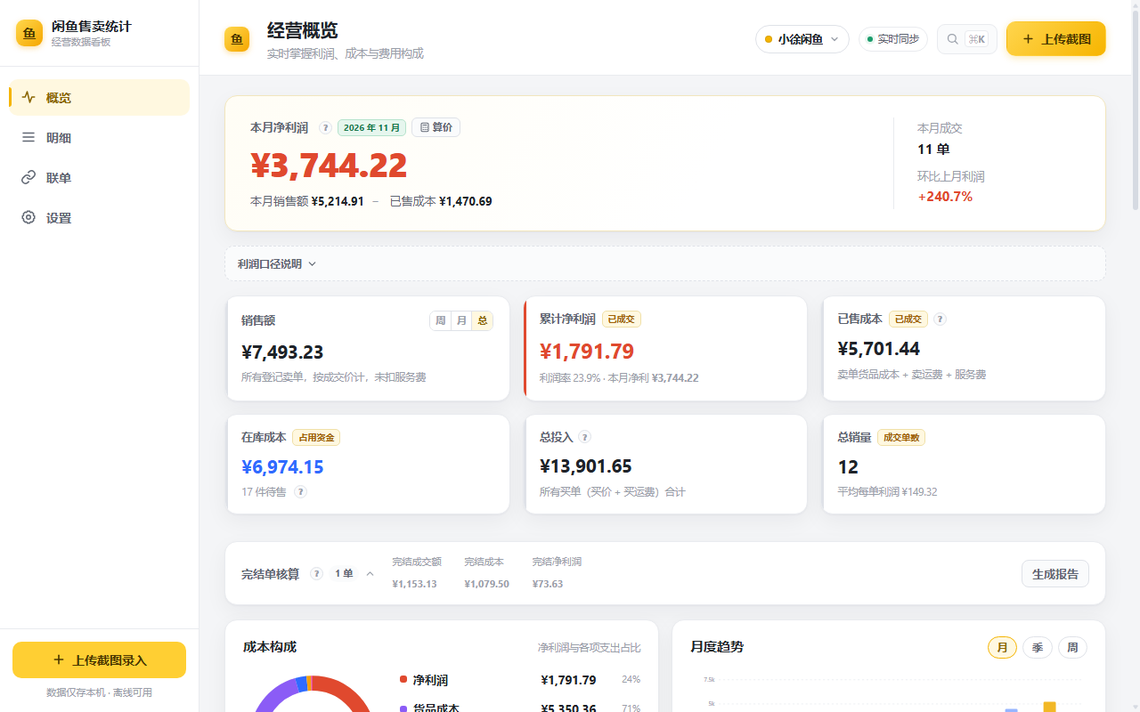
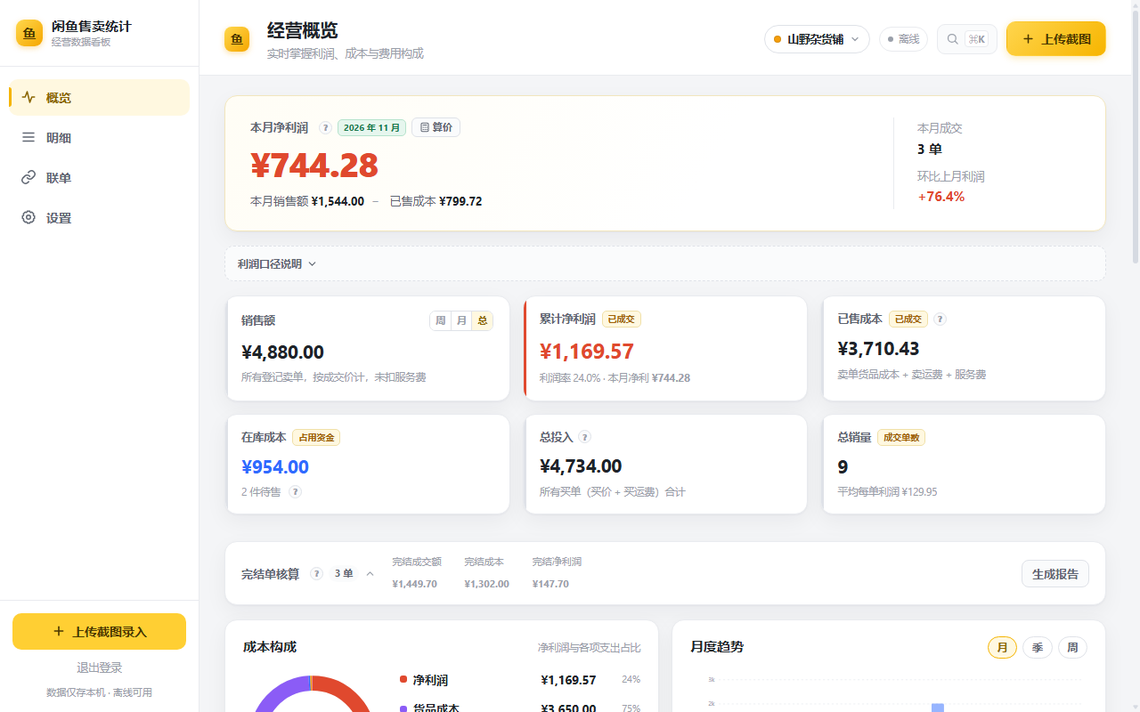
README 截图全部改用演示数据
- 新建独立演示实例（独立 SQLite，隔离端口），灌入虚构的店铺、商品、
  买家昵称与订单号后重新截图，不再包含任何真实交易信息
- 截图说明改为「演示数据（店铺与商品均为虚构）」

diff --git a/README.md b/README.md
@@ -71,7 +71,7 @@
 
 ## 界面
 
-> 截图里的买家/卖家昵称已做模糊处理。
+> 截图为演示数据（店铺与商品均为虚构），不是真实交易记录。
 
 | 首页概览 | 明细 | 联单 |
 | :---: | :---: | :---: |
